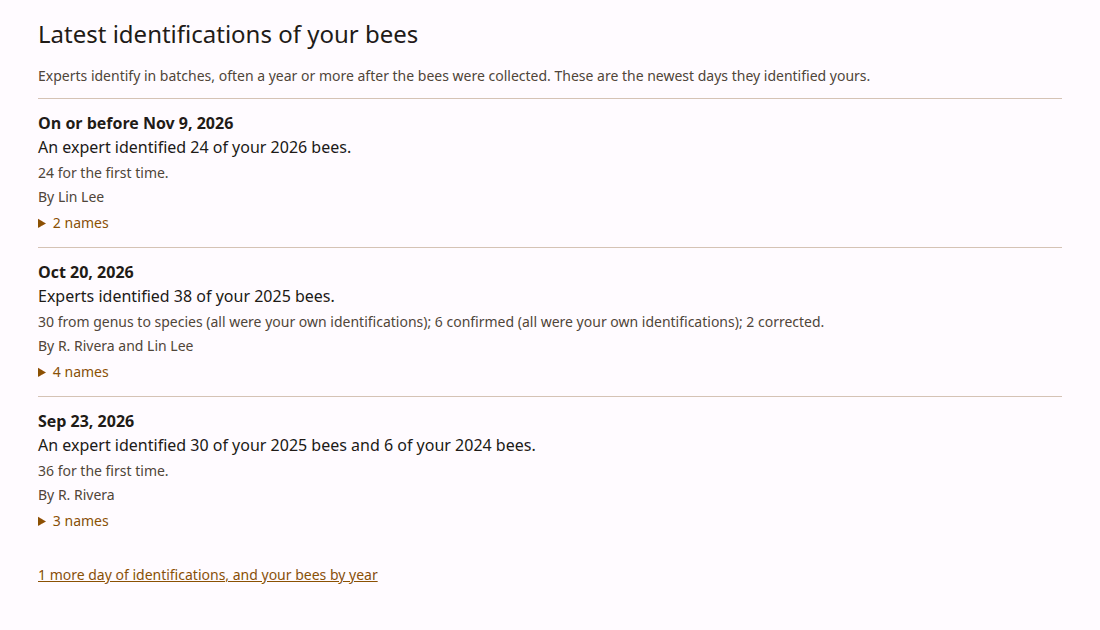
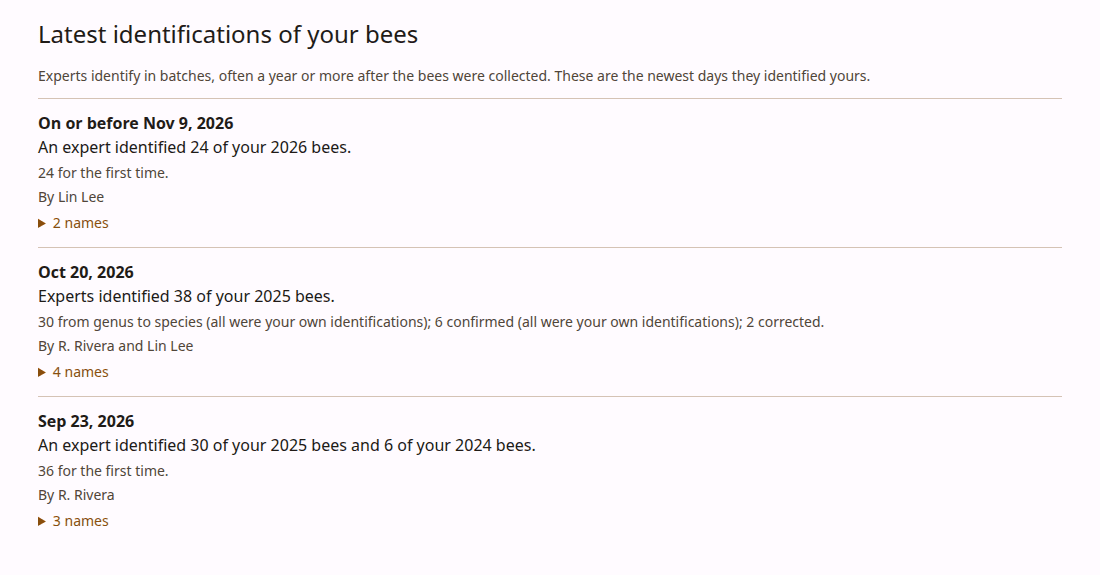
Leave Your bees unlinked until the front page is redesigned
Peter wants to show the page to staff before volunteers find it, and where
it is reached from waits for a redesign of the front page. So the header bar
loses its "Your bees" link, and the front page's latest identifications no
longer end in a link to /bees. The page is still served at its address. The
count of days that link reported is gone with it.

Changed region(s): [[0.0309, 0.0296, 0.9582, 0.9461]]

diff --git a/test/expert-identification.test.ts b/test/expert-identification.test.ts
@@ -186,8 +186,8 @@ describe("identifications in batches (Your bees, and the front page)", () => {
   it("groups by the day in Oregon, counts each year's bees, and says what each identification did", async () => {
     const { db, ada } = await populated();
     for (const inlineLimit of [2_000, 0]) {
-      const { batches, days, undated } = await identificationBatches(db, ada, { inlineLimit });
-      expect(days).toBe(3);
+      const { batches, undated } = await identificationBatches(db, ada, { inlineLimit });
+      expect(batches).toHaveLength(3);
       // Ada's own genus of 1 July, read back from Ecdysis, is no batch of hers.
       // 26000101's name the old Beeline held before Ecdysis repeated it, and
       // 26000201's only the old Beeline knows: both undated, so no news.
@@ -240,7 +240,7 @@ describe("identifications in batches (Your bees, and the front page)", () => {
     await conn.run(`INSERT INTO animal (rank, scientific_name, parent_id) VALUES ('genus', 'Vespula', (SELECT entity_id FROM animal WHERE scientific_name = 'Vespidae'))`);
     await expert(await spec("26000101"), "Vespula", "ecdysis_import", "2026-11-04 11:00:00Z", { enteredAt: "2026-10-01 10:00:00" });
     await expert(await spec("26000102"), "Vespula", "legacy_import", "2026-11-03 22:25:00Z");
-    expect(await identificationBatches(db, ada)).toEqual({ batches: [], days: 0, undated: 0 });
+    expect(await identificationBatches(db, ada)).toEqual({ batches: [], undated: 0 });
   });
 
   it("never compares a person with whoever gave an earlier name, so the old Beeline's renaming stays undated", async () => {
@@ -263,7 +263,7 @@ describe("identifications in batches (Your bees, and the front page)", () => {
     const s = await spec("26000101");
     await expert(s, "Bombus mixtus", "ecdysis_import", "2026-03-02 08:00:00Z", { enteredAt: "2026-03-01 10:00:00" });
     await expert(s, "Vespula", "legacy_import", "2026-11-03 22:25:00Z");
-    expect(await identificationBatches(db, ada)).toEqual({ batches: [], days: 0, undated: 0 });
+    expect(await identificationBatches(db, ada)).toEqual({ batches: [], undated: 0 });
   });
 
   it("does not count the person's own dated name as undated when a repeat naming nobody follows it", async () => {
@@ -271,7 +271,7 @@ describe("identifications in batches (Your bees, and the front page)", () => {
     const s = await spec("26000101");
     await expert(s, "Bombus mixtus", "ecdysis_import", "2026-03-02 08:00:00Z", { enteredAt: "2026-03-01 10:00:00", by: ada });
     await expert(s, "Bombus mixtus", "legacy_import", "2026-11-03 22:25:00Z");
-    expect(await identificationBatches(db, ada)).toEqual({ batches: [], days: 0, undated: 0 });
+    expect(await identificationBatches(db, ada)).toEqual({ batches: [], undated: 0 });
   });
 
   it("does not count the undated where the front page asks it not to", async () => {
@@ -303,11 +303,10 @@ describe("identifications in batches (Your bees, and the front page)", () => {
     expect(day!.kinds.map((k) => [k.kind, k.count])).toEqual(expect.arrayContaining([["first", 1], ["corrected", 1]]));
   });
 
-  it("shows the newest days up to the limit, and still counts them all", async () => {
+  it("shows the newest days up to the limit", async () => {
     const { db, ada } = await populated();
-    const { batches, days } = await identificationBatches(db, ada, { maxBatches: 1 });
+    const { batches } = await identificationBatches(db, ada, { maxBatches: 1 });
     expect(batches).toHaveLength(1);
-    expect(days).toBe(3);
   });
 
   it("says 'on or before' for a sheet that stated no day, and lists an old Beeline name that states one", async () => {
@@ -324,7 +323,7 @@ describe("identifications in batches (Your bees, and the front page)", () => {
   it("counts an old Beeline name that states only a year as undated, not as datable", async () => {
     const { db, ada, spec, expert } = await fixture();
     await expert(await spec("26000101"), "Bombus mixtus", "legacy_import", "2026-11-03 22:25:00Z", { on: "2025-01-01", precision: "year" });
-    expect(await identificationBatches(db, ada)).toEqual({ batches: [], days: 0, undated: 1 });
+    expect(await identificationBatches(db, ada)).toEqual({ batches: [], undated: 1 });
   });
 
   it("lists the specimens each name was given to, for links to them", async () => {
@@ -337,7 +336,7 @@ describe("identifications in batches (Your bees, and the front page)", () => {
 
   it("is empty for a person with no specimens", async () => {
     const { db, lin } = await populated();
-    expect(await identificationBatches(db, lin)).toEqual({ batches: [], days: 0, undated: 0 });
+    expect(await identificationBatches(db, lin)).toEqual({ batches: [], undated: 0 });
   });
 
   it("tells finer, coarser, corrected and a change in certainty apart", () => {
@@ -393,7 +392,7 @@ describe("the pages", () => {
     });
   }
 
-  it("puts the newest days on the front page and links to Your bees", async () => {
+  it("puts the newest days on the front page, without linking to Your bees yet", async () => {
     const f = await fixture();
     await f.expert(await f.spec("26000102"), "Bombus caliginosus", "ecdysis_import", "2026-06-02 08:00:00Z", { enteredAt: "2026-06-02 08:00:00", byName: "L. Best" });
     await f.expert(await f.spec("26000102"), "Bombus vosnesenskii", "ecdysis_import", "2026-11-04 11:00:00Z", { enteredAt: "2026-10-20 17:00:00", byName: "L. Best" });
@@ -401,7 +400,7 @@ describe("the pages", () => {
     const section = html.slice(html.indexOf(en.qc.identifications.heading));
     expect(section).toContain(en.yourBees.batches.identified([en.yourBees.batches.ofSeason(1, CURRENT_SEASON)], 1));
     expect(section).toContain(en.yourBees.batches.kinds([en.yourBees.batches.kind.corrected(1)]));
-    expect(section).toContain('href="/bees"');
+    expect(html).not.toContain('href="/bees"');
   });
 
   it("draws Your bees: the chart by year and every day of identifications", async () => {

diff --git a/src/app/your-bees.ts b/src/app/your-bees.ts
@@ -72,8 +72,6 @@ export interface Batch {
 
 export interface Batches {
   batches: Batch[];
-  /** How many days in all, of which `batches` holds the newest. */
-  days: number;
   /**
    * Specimens an expert has named that are in no batch, because no
    * identification of them has a date Beeline can use: most were named in the
@@ -209,7 +207,7 @@ export async function identificationBatches(
     .select("d.specimen_id")
     .distinct();
   const ids = (await specimens.execute()).map((r) => Number(r.specimen_id));
-  if (ids.length === 0) return { batches: [], days: 0, undated: countUndated ? 0 : null };
+  if (ids.length === 0) return { batches: [], undated: countUndated ? 0 : null };
   // The person's name as written, for determinations that name them but were
   // not tied to their record, such as an Ecdysis determiner no alias matched.
   const me = (await db.selectFrom("person").where("entity_id", "=", personId).select("display_name").executeTakeFirst())?.display_name ?? null;
@@ -319,8 +317,6 @@ export async function identificationBatches(
     n.specimens.push({ specimen_id: Number(r.specimen_id), field_number: r.field_number, sample_number: r.sample_number, specimen_number: Number(r.specimen_number) });
     day.names.set(nameKey, n);
   }
-  // Every day is counted, even past maxBatches, so the page can say how many it is not showing.
-  const days = new Set(theirs.map((r) => `${PACIFIC_DAY.format(r.identified_at as Date)}:${r.identified_at_is_bound}`)).size;
   const batches = [...byDay.values()].map(({ batch, kinds, names, seasons, determiners }) => ({
     ...batch,
     seasons: [...seasons].map(([season, bees]) => ({ season, count: bees.size })).sort((a, b) => b.season - a.season),
@@ -332,7 +328,7 @@ export async function identificationBatches(
   }));
   const shown = new Set(theirs.map((r) => Number(r.specimen_id)));
   const undated = countUndated ? new Set(eligible.map((r) => Number(r.specimen_id)).filter((id) => !shown.has(id))).size : null;
-  return { batches, days, undated };
+  return { batches, undated };
 }
 
 /** What an identification did to the name before it. */

diff --git a/src/app/views/qc.tsx b/src/app/views/qc.tsx
@@ -262,8 +262,9 @@ function Skipped({ m, days }: { m: Messages; days: SkippedDay[] }) {
 
 /**
  * The newest days experts identified the person's bees (beeline-xegx), as
- * /bees shows them, with a link there for the rest. Below everything that
- * wants doing, since it asks nothing of the volunteer.
+ * /bees shows them. Below everything that wants doing, since it asks nothing
+ * of the volunteer. It does not link to /bees yet: nothing does until the
+ * front page is redesigned (docs/architecture/your-bees.md).
  */
 function Identifications({ m, batches }: { m: Messages; batches: Batches }) {
   const t = m.qc.identifications;
@@ -272,9 +273,6 @@ function Identifications({ m, batches }: { m: Messages; batches: Batches }) {
       <h2>{t.heading}</h2>
       <Meta block>{t.intro}</Meta>
       {batches.batches.length === 0 ? <EmptyState>{t.empty}</EmptyState> : <BatchList m={m} batches={batches.batches} />}
-      <Meta block>
-        <a href="/bees">{t.all(Math.max(0, batches.days - batches.batches.length))}</a>
-      </Meta>
     </>
   );
 }

diff --git a/src/app/messages/en.ts b/src/app/messages/en.ts
@@ -273,7 +273,6 @@ export const en = {
       specimens: "Specimens",
       glossary: "Glossary",
       howItWorks: "How Beeline works",
-      yourBees: "Your bees",
       people: "People",
       design: "Design",
       jobs: "Jobs",
@@ -578,10 +577,6 @@ export const en = {
       heading: "Latest identifications of your bees",
       intro: "Experts identify in batches, often a year or more after the bees were collected. These are the newest days they identified yours.",
       empty: "No dated identification of your bees by an expert other than you yet.",
-      all: (moreDays: number) =>
-        moreDays > 0
-          ? `${n(moreDays)} more ${moreDays === 1 ? "day" : "days"} of identifications, and your bees by year`
-          : "Your bees by year, and all their identifications",
     },
     /**
      * Settled seasons stop asking (beeline-2c3.24). Said out loud rather than

diff --git a/src/app/views/layout.tsx b/src/app/views/layout.tsx
@@ -49,7 +49,6 @@ function NavLinks({ m }: { m: Messages }) {
   return (
     <>
       <a href="/how-it-works">{m.layout.nav.howItWorks}</a>
-      <a href="/bees">{m.layout.nav.yourBees}</a>
       <a href="/samples">{m.layout.nav.samples}</a>
       <a href="/specimens">{m.layout.nav.specimens}</a>
     </>

diff --git a/docs/architecture/your-bees.md b/docs/architecture/your-bees.md
@@ -2,7 +2,7 @@
 
 Part of Beeline's architecture notes; the index is [README.md](README.md).
 
-`/bees` (`src/app/your-bees.ts` + `src/app/views/your-bees.tsx`, beeline-fiay, beeline-xegx) is a volunteer's own bees: how far each collection year's are identified, and the experts' identifications of them as they arrived. It is the start of the student report's replacement, which Andony asked for on 2026-11-11: the old report was a 29-page PDF a season, of which about five pages were about the volunteer ([research/melittoflora.md](../research/melittoflora.md#the-volunteer-reports-it-hosts)). Like the front page it is a "mine" surface: it shows the effective person's bees, a second collector's included (beeline-77j), and follows the switch when somebody acts for somebody else; staff see a volunteer's by viewing Beeline as them, since `/people/:id` is admins only. "Your bees" is in the header bar.
+`/bees` (`src/app/your-bees.ts` + `src/app/views/your-bees.tsx`, beeline-fiay, beeline-xegx) is a volunteer's own bees: how far each collection year's are identified, and the experts' identifications of them as they arrived. It is the start of the student report's replacement, which Andony asked for on 2026-11-11: the old report was a 29-page PDF a season, of which about five pages were about the volunteer ([research/melittoflora.md](../research/melittoflora.md#the-volunteer-reports-it-hosts)). Like the front page it is a "mine" surface: it shows the effective person's bees, a second collector's included (beeline-77j), and follows the switch when somebody acts for somebody else; staff see a volunteer's by viewing Beeline as them, since `/people/:id` is admins only. Nothing links to it yet, neither the header bar nor the front page: Peter is showing it to staff first, and where it is reached from waits for a redesign of the front page (2026-11-12). It is reached by its address.
 
 **Bees by year** is one stacked bar per collection year (`sample_season`), split by how far each specimen's determination of record goes: to species or finer, to genus or subgenus, coarser, or not at all. It needs no dates, so it works for every atlas. Volunteers' own determinations count, as the determination of record counts them. Specimens identified to a family that is not a bee's (`src/bee-families.ts`) are left out, so a wasp caught as bycatch is never a bee "to species": 990 of production's 227,115 determinations of record on 2026-11-11. A specimen with no family yet stays in, since it may be a bee. The chart is SVG drawn on the server, with no library and no script: it prints, and its numbers are in a table beside it and in each bar's title. Its colours are the chart's own, one blue ramp with grey for "not yet", in `components.css`, validated for colour-blind readers in both modes.
 

diff --git a/docs/architecture/the-front-page.md b/docs/architecture/the-front-page.md
@@ -10,6 +10,6 @@ A staff hold (beeline-plu) is one more flag on the page, `staff_hold`, with no c
 
 A locality flag — `locality_format`, or a required field missing that is the locality — carries on its line the locality Beeline names from the sample's coordinates, with a button that makes it the sample's locality in one click, rather than the volunteer guessing at a name on iNaturalist ([Localities from coordinates](localities-from-coordinates.md), beeline-7i6).
 
-Last on the page, below everything that wants doing, is **Latest identifications of your bees** (beeline-xegx): the three newest days experts identified the person's bees, drawn as `/bees` draws them, with a link there for the rest. How the days are made, and why they are dated as they are, is [Your bees](your-bees.md).
+Last on the page, below everything that wants doing, is **Latest identifications of your bees** (beeline-xegx): the three newest days experts identified the person's bees, drawn as `/bees` draws them. It does not link to `/bees` yet ([Your bees](your-bees.md) says why). How the days are made, and why they are dated as they are, is [Your bees](your-bees.md).
 
 First in the header bar, beside Samples and Specimens (Andony, gh-262), is **How Beeline works** (`/how-it-works`, `src/app/views/how-it-works.tsx`, beeline-kgwd): the process in the specimen's order, from the observation on iNaturalist to handing the season's specimens in, with what each step needs from the volunteer and when things happen. The front page's lede links to it. Like the glossary it is catalog copy throughout, and a test checks that every link on it resolves, so its links cannot go stale; the hours and dates it states are written by hand and change with the schedule in `src/app/jobs/registry.ts`.
